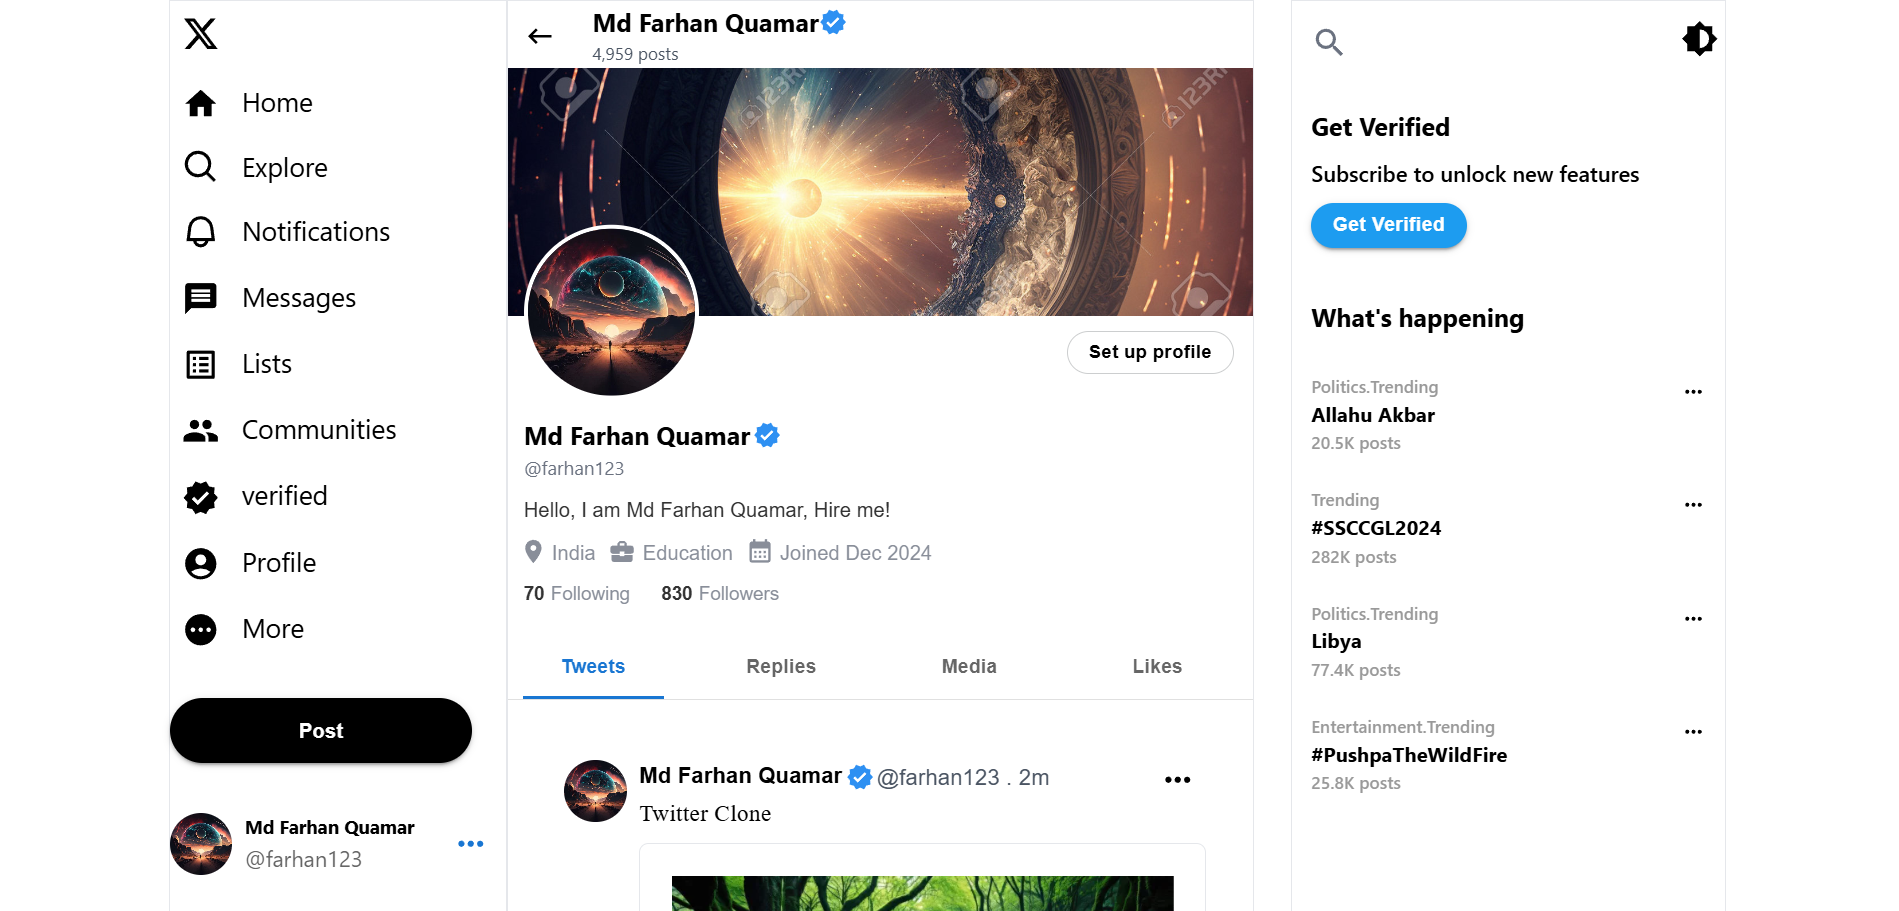
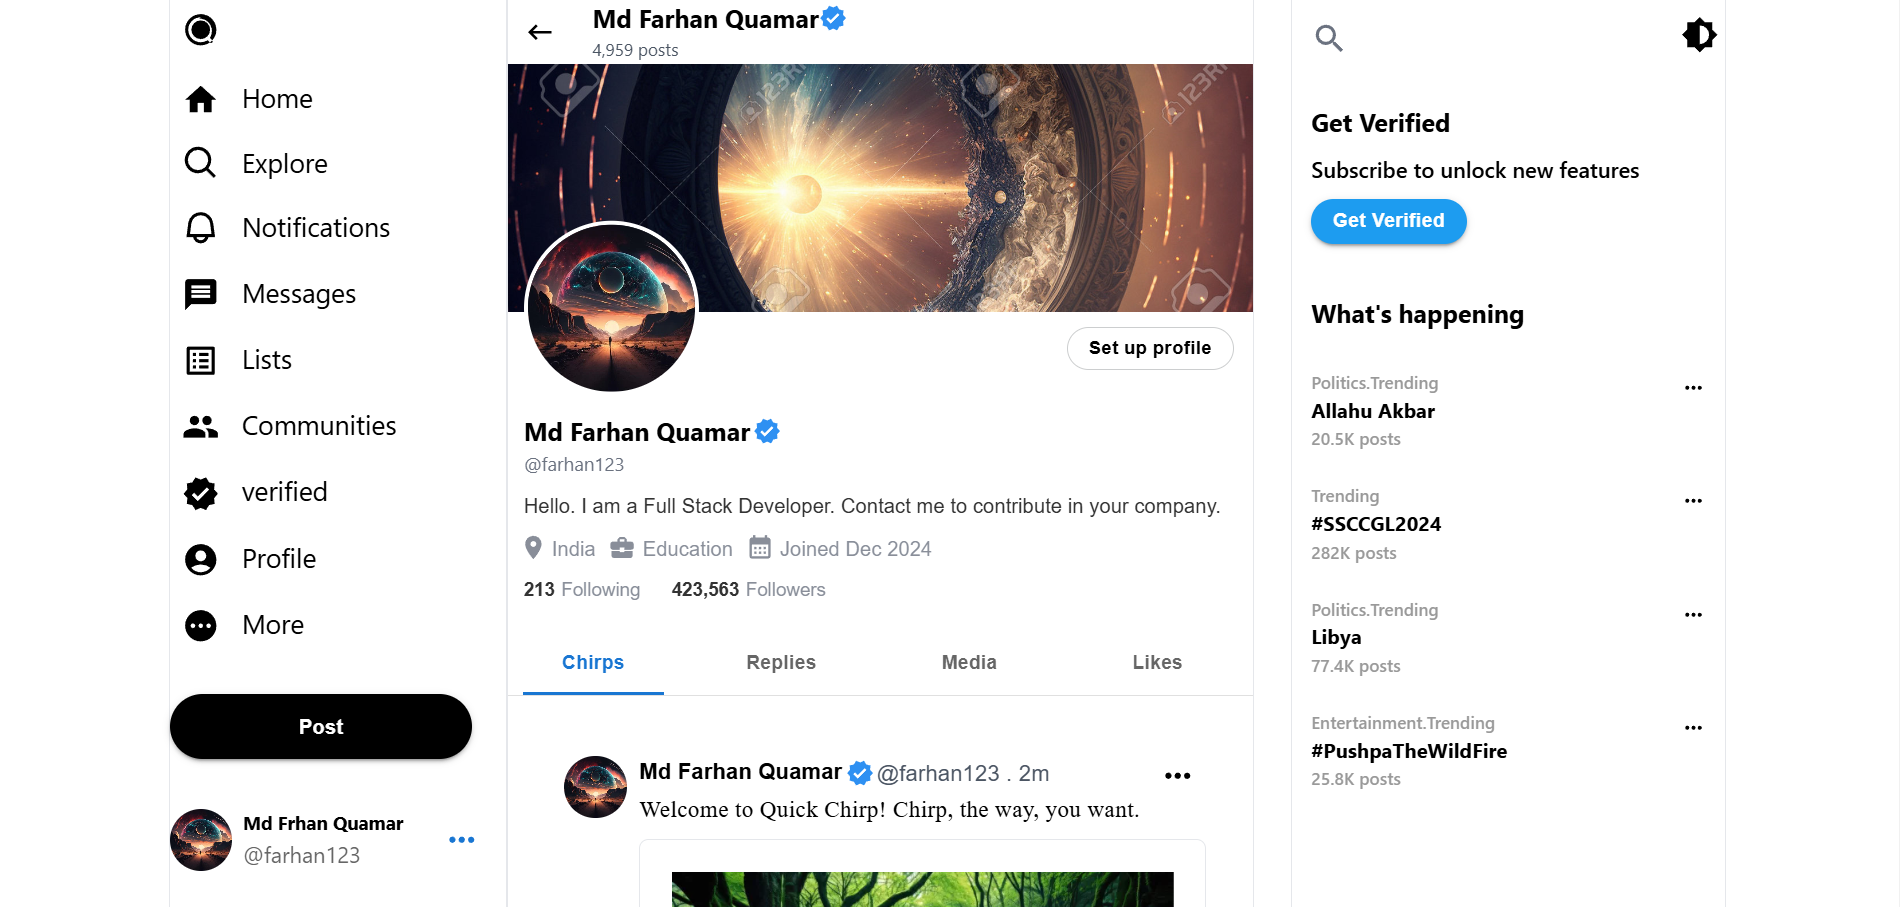
Modified README according to new architecture

diff --git a/README.md b/README.md
@@ -1,13 +1,22 @@
 
-# Twitter Clone - Full Stack Project
+# Quick Chirp - Full Stack Project
 
 ## Overview
-This project is a **Twitter Clone**, designed as a full-stack application using **React** for the frontend and **Spring Boot** for the backend. It replicates core functionalities of Twitter, allowing users to create accounts, post tweets, follow other users, and view a real-time feed. This project demonstrates scalable, modern web development practices and serves as a comprehensive showcase of full-stack development skills.
+Quick Chirp is a full-stack application inspired by Twitter. Designed to showcase modern, scalable web development practices, it uses **React** for the frontend and **Spring Boot** for the backend. The application replicates core functionalities of a social media platform, allowing users to:
+
+- Create accounts
+- Post chirps (tweets)
+- Follow other users
+- View a real-time feed
+
+This project serves as a comprehensive demonstration of full-stack development skills, combining intuitive user interfaces with a robust backend architecture.
 
 ## Features
 - **User Authentication**: Secure user registration and login using JWT authentication.
-- **Tweet Management**: Create, edit, delete, and view tweets.
-- **Follow System**: Follow and unfollow users to personalize your feed.
+- **Tweet Management**: Create, edit, delete, and view chirps.
+- **Real-Time Feed**: See the latest posts from users you follow.
+- **Chirp Creation**: Post short messages (chirps) with ease.
+- **Follow System**: Follow and unfollow other users to personalize your feed.
 
 ## Tech Stack
 ### Frontend
@@ -20,13 +29,13 @@ This project is a **Twitter Clone**, designed as a full-stack application using 
 ### Backend
 - **Spring Boot**: For creating a robust and scalable REST API.
 - **Spring Security 6**: For authentication and authorization.
-- **MySQL**: As the relational database for persistent data storage.
+- **MySQL**: As the relational database for persistent user and chirp data storage.
 
 ## System Architecture
 The project follows a **3-tier architecture**:
 1. **Frontend**: Handles user interaction and communicates with the backend via REST APIs.
 2. **Backend**: Processes business logic and provides API endpoints.
-3. **Database**: Stores user information, tweets, and follower data.
+3. **Database**: Stores user information, chirps, and follower data.
 
 ## Installation and Setup
 ### Prerequisites
@@ -77,9 +86,9 @@ The project follows a **3-tier architecture**:
 
 ![Home Page](app_screenshots/Home_Page.png)
 
-5. Tweet Reply Modal
+5. Chirp Reply Modal
 
-![Tweet Reply](app_screenshots/Tweet_Reply_Modal.png)
+![Chirp Reply](app_screenshots/Chirp_Reply_Modal.png)
 
 6. Subscription Modal
 
